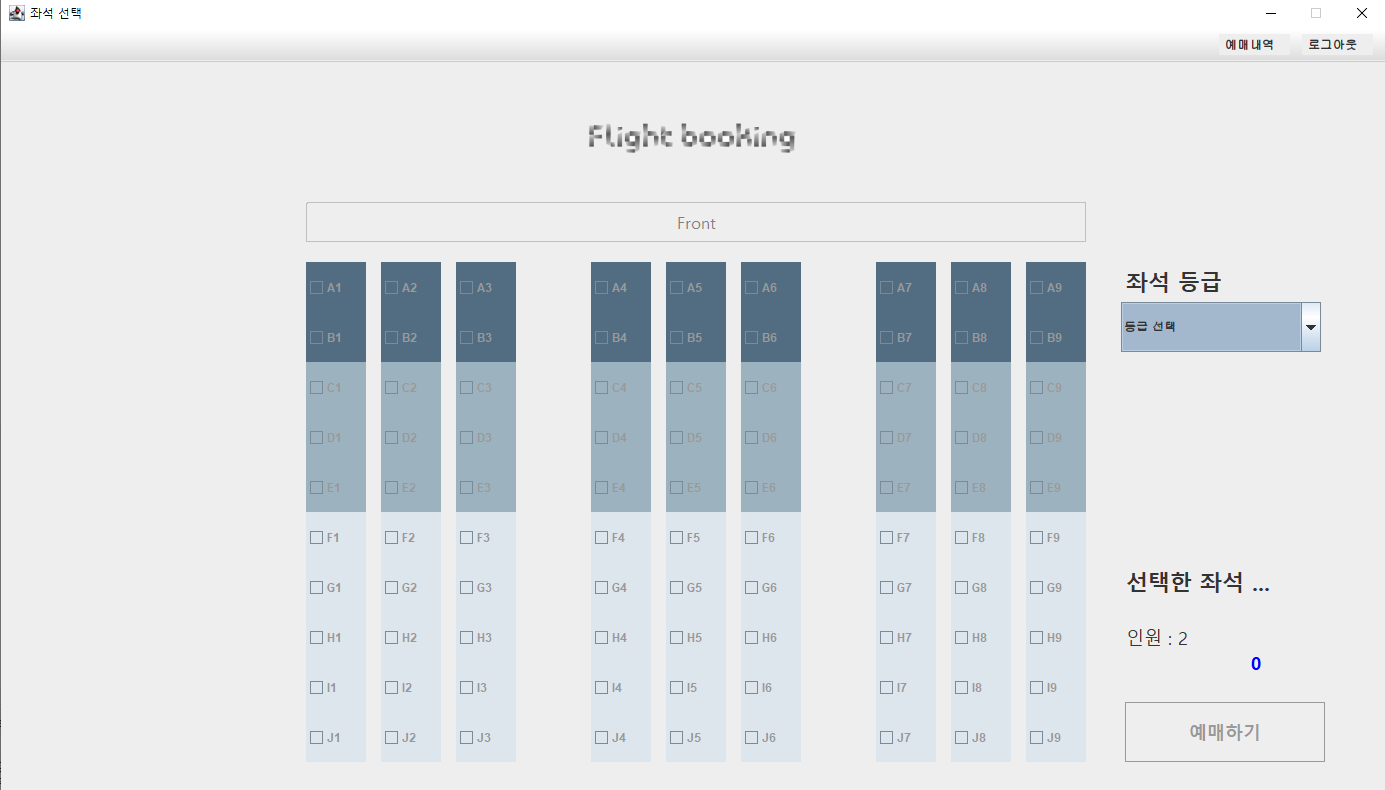
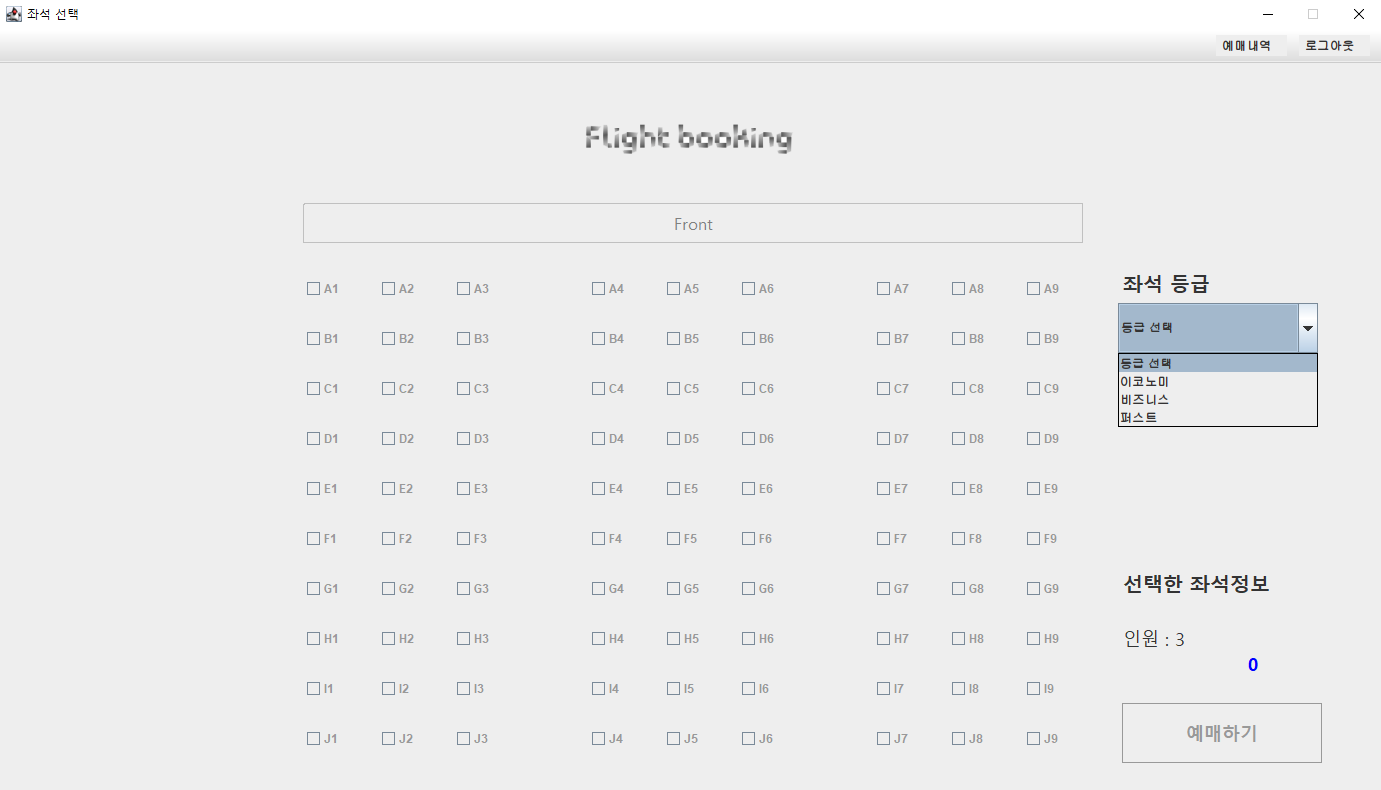
Add files via upload

diff --git a/Seat.java b/Seat.java
@@ -105,22 +105,7 @@ public class Seat extends JFrame {
                 if (j % 3 == 0) {
                     gapAccumulator += gapIncrement;
                 }
-                
-             // 버튼 배경색&글자색
-                if(i<2) {	//퍼스트
-                	Color color1 = new Color(0x526D82);
-                	seatBtn[i][j].setBackground(color1);
-                	seatBtn[i][j].setForeground(Color.WHITE);
-                } else if(i<5) {	//비즈니스
-                	Color color2 = new Color(0x9DB2BF);
-                	seatBtn[i][j].setBackground(color2);
-                } else if(i<10) {	//이코노미
-                	Color color3 = new Color(0xDDE6ED);
-                	seatBtn[i][j].setBackground(color3);
-                }
 
-
-                
                 pnl.add(seatBtn[i][j]);
 
             }
@@ -129,7 +114,7 @@ public class Seat extends JFrame {
 
         JLabel selectClass = new JLabel("좌석 등급");
         selectClass.setBounds(1125, 200, 150, 40);
-        selectClass.setFont(new Font("맑은 고딕", Font.BOLD, 22));
+        selectClass.setFont(new Font("맑은 고딕", Font.BOLD, 20));
         getContentPane().add(selectClass);
 
         String[] title = { "등급 선택", "이코노미", "비즈니스", "퍼스트" };
@@ -163,10 +148,12 @@ public class Seat extends JFrame {
                         }
                     }
 
-                    if (seatValue.equals(title[1])) {
+                    if (seatValue.equals(title[1])) {	//이코노미
                     	for(int i=5; i<10; i++) {
                     		for(int j=1; j<10; j++) {                    			
                     			seatBtn[i][j].setBorderPainted(true);
+                                Color color3 = new Color(0xDDE6ED);
+                            	seatBtn[i][j].setBackground(color3);
                     		}
                     	}
                         for (int i = 0; i < 5; i++) {
@@ -174,12 +161,15 @@ public class Seat extends JFrame {
                                 seatBtn[i][j].setEnabled(false);
                                 seatBtn[i][j].setSelected(false);
                                 seatBtn[i][j].setBorderPainted(false);
+                                seatBtn[i][j].setBackground(null);
                             }
                         }
-                    } else if (seatValue.equals(title[2])) {
+                    } else if (seatValue.equals(title[2])) {	//비즈니스
                     	for (int i=2; i<5; i++) {
                     		for(int j=1; j<10; j++) {
                     			seatBtn[i][j].setBorderPainted(true);
+                                Color color3 = new Color(0xDDE6ED);
+                            	seatBtn[i][j].setBackground(color3);
                     		}
                     	}
                         for (int i = 0; i < 2; i++) {
@@ -187,6 +177,8 @@ public class Seat extends JFrame {
                                 seatBtn[i][j].setEnabled(false);
                                 seatBtn[i][j].setSelected(false);
                                 seatBtn[i][j].setBorderPainted(false);
+                                seatBtn[i][j].setBackground(null);
+
                             }
                         }
                         for (int i = 5; i < 10; i++) {
@@ -194,12 +186,16 @@ public class Seat extends JFrame {
                                 seatBtn[i][j].setEnabled(false);
                                 seatBtn[i][j].setSelected(false);
                                 seatBtn[i][j].setBorderPainted(false);
+                                seatBtn[i][j].setBackground(null);
+
                             }
                         }
-                    } else if (seatValue.equals(title[3])) {
+                    } else if (seatValue.equals(title[3])) {	//퍼스트
                     	for(int i=0; i<2; i++) {
                     		for(int j=1; j<10; j++) {
                     			seatBtn[i][j].setBorderPainted(true);
+                                Color color3 = new Color(0xDDE6ED);
+                            	seatBtn[i][j].setBackground(color3);
                     		}
                     	}
                         for (int i = 2; i < 10; i++) {
@@ -207,12 +203,12 @@ public class Seat extends JFrame {
                                 seatBtn[i][j].setEnabled(false);
                                 seatBtn[i][j].setSelected(false);
                                 seatBtn[i][j].setBorderPainted(false);
+                                seatBtn[i][j].setBackground(null);
                             }
                         }
                     }
                 }
             }
-
         };
 
         seatClass.addActionListener(seatAl);
@@ -267,9 +263,9 @@ public class Seat extends JFrame {
             }
         }
 
-        JLabel selectedSeat = new JLabel("선택한 좌석 정보");
+        JLabel selectedSeat = new JLabel("선택한 좌석정보");
         selectedSeat.setBounds(1125, 500, 150, 40);
-        selectedSeat.setFont(new Font("맑은 고딕", Font.BOLD, 22));
+        selectedSeat.setFont(new Font("맑은 고딕", Font.BOLD, 20));
         getContentPane().add(selectedSeat);
 
         JLabel selectedNum = new JLabel("인원 : " + tempReser.getCountPeople());
